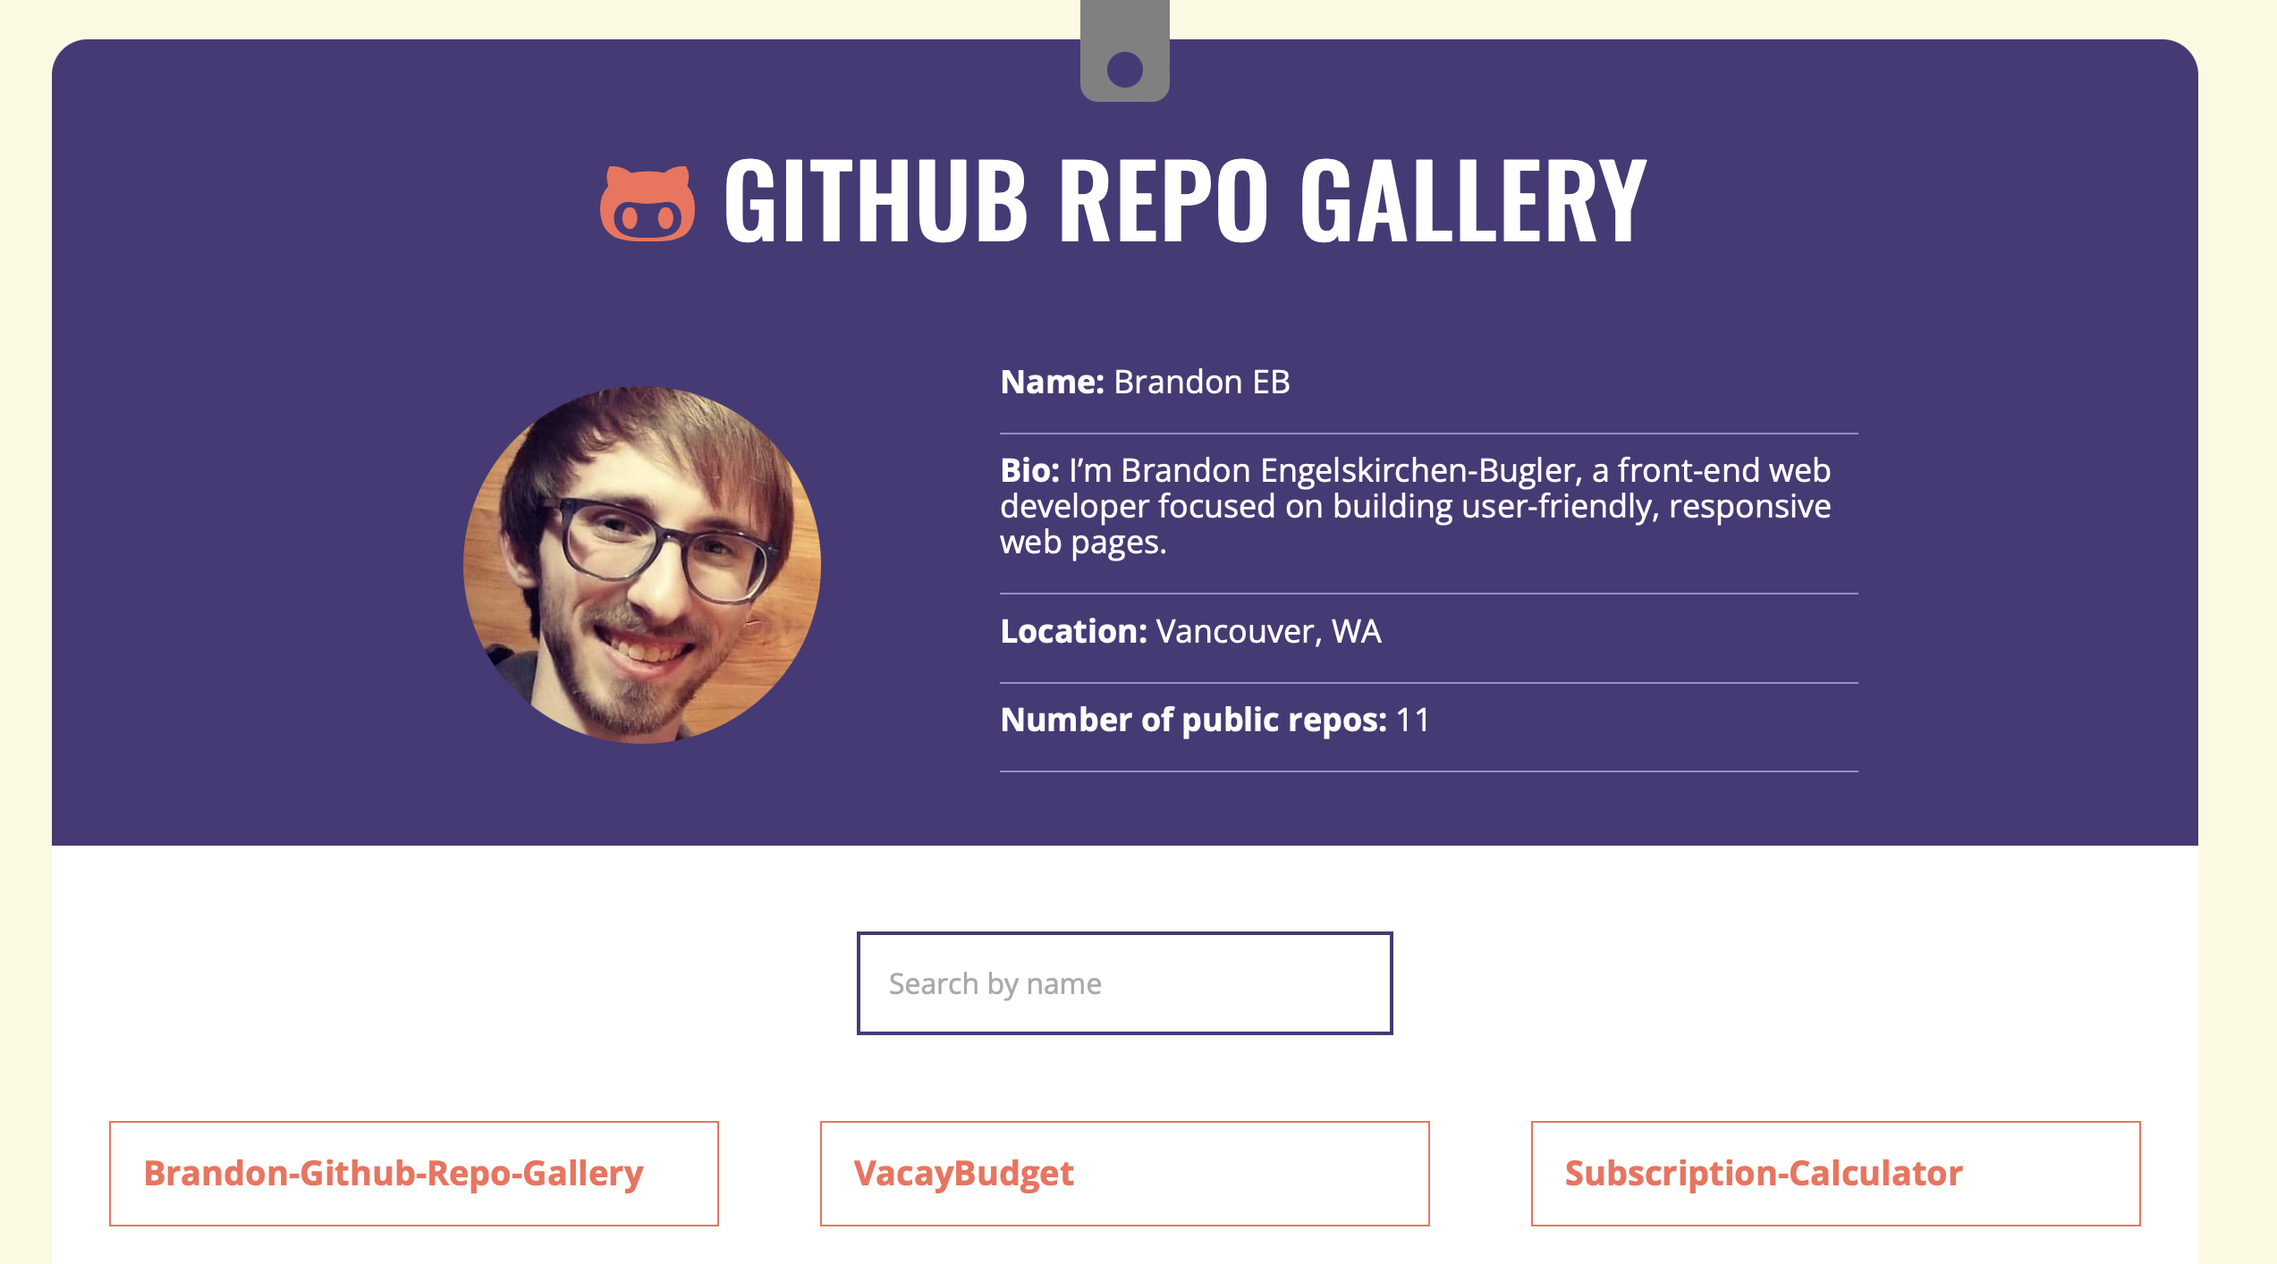
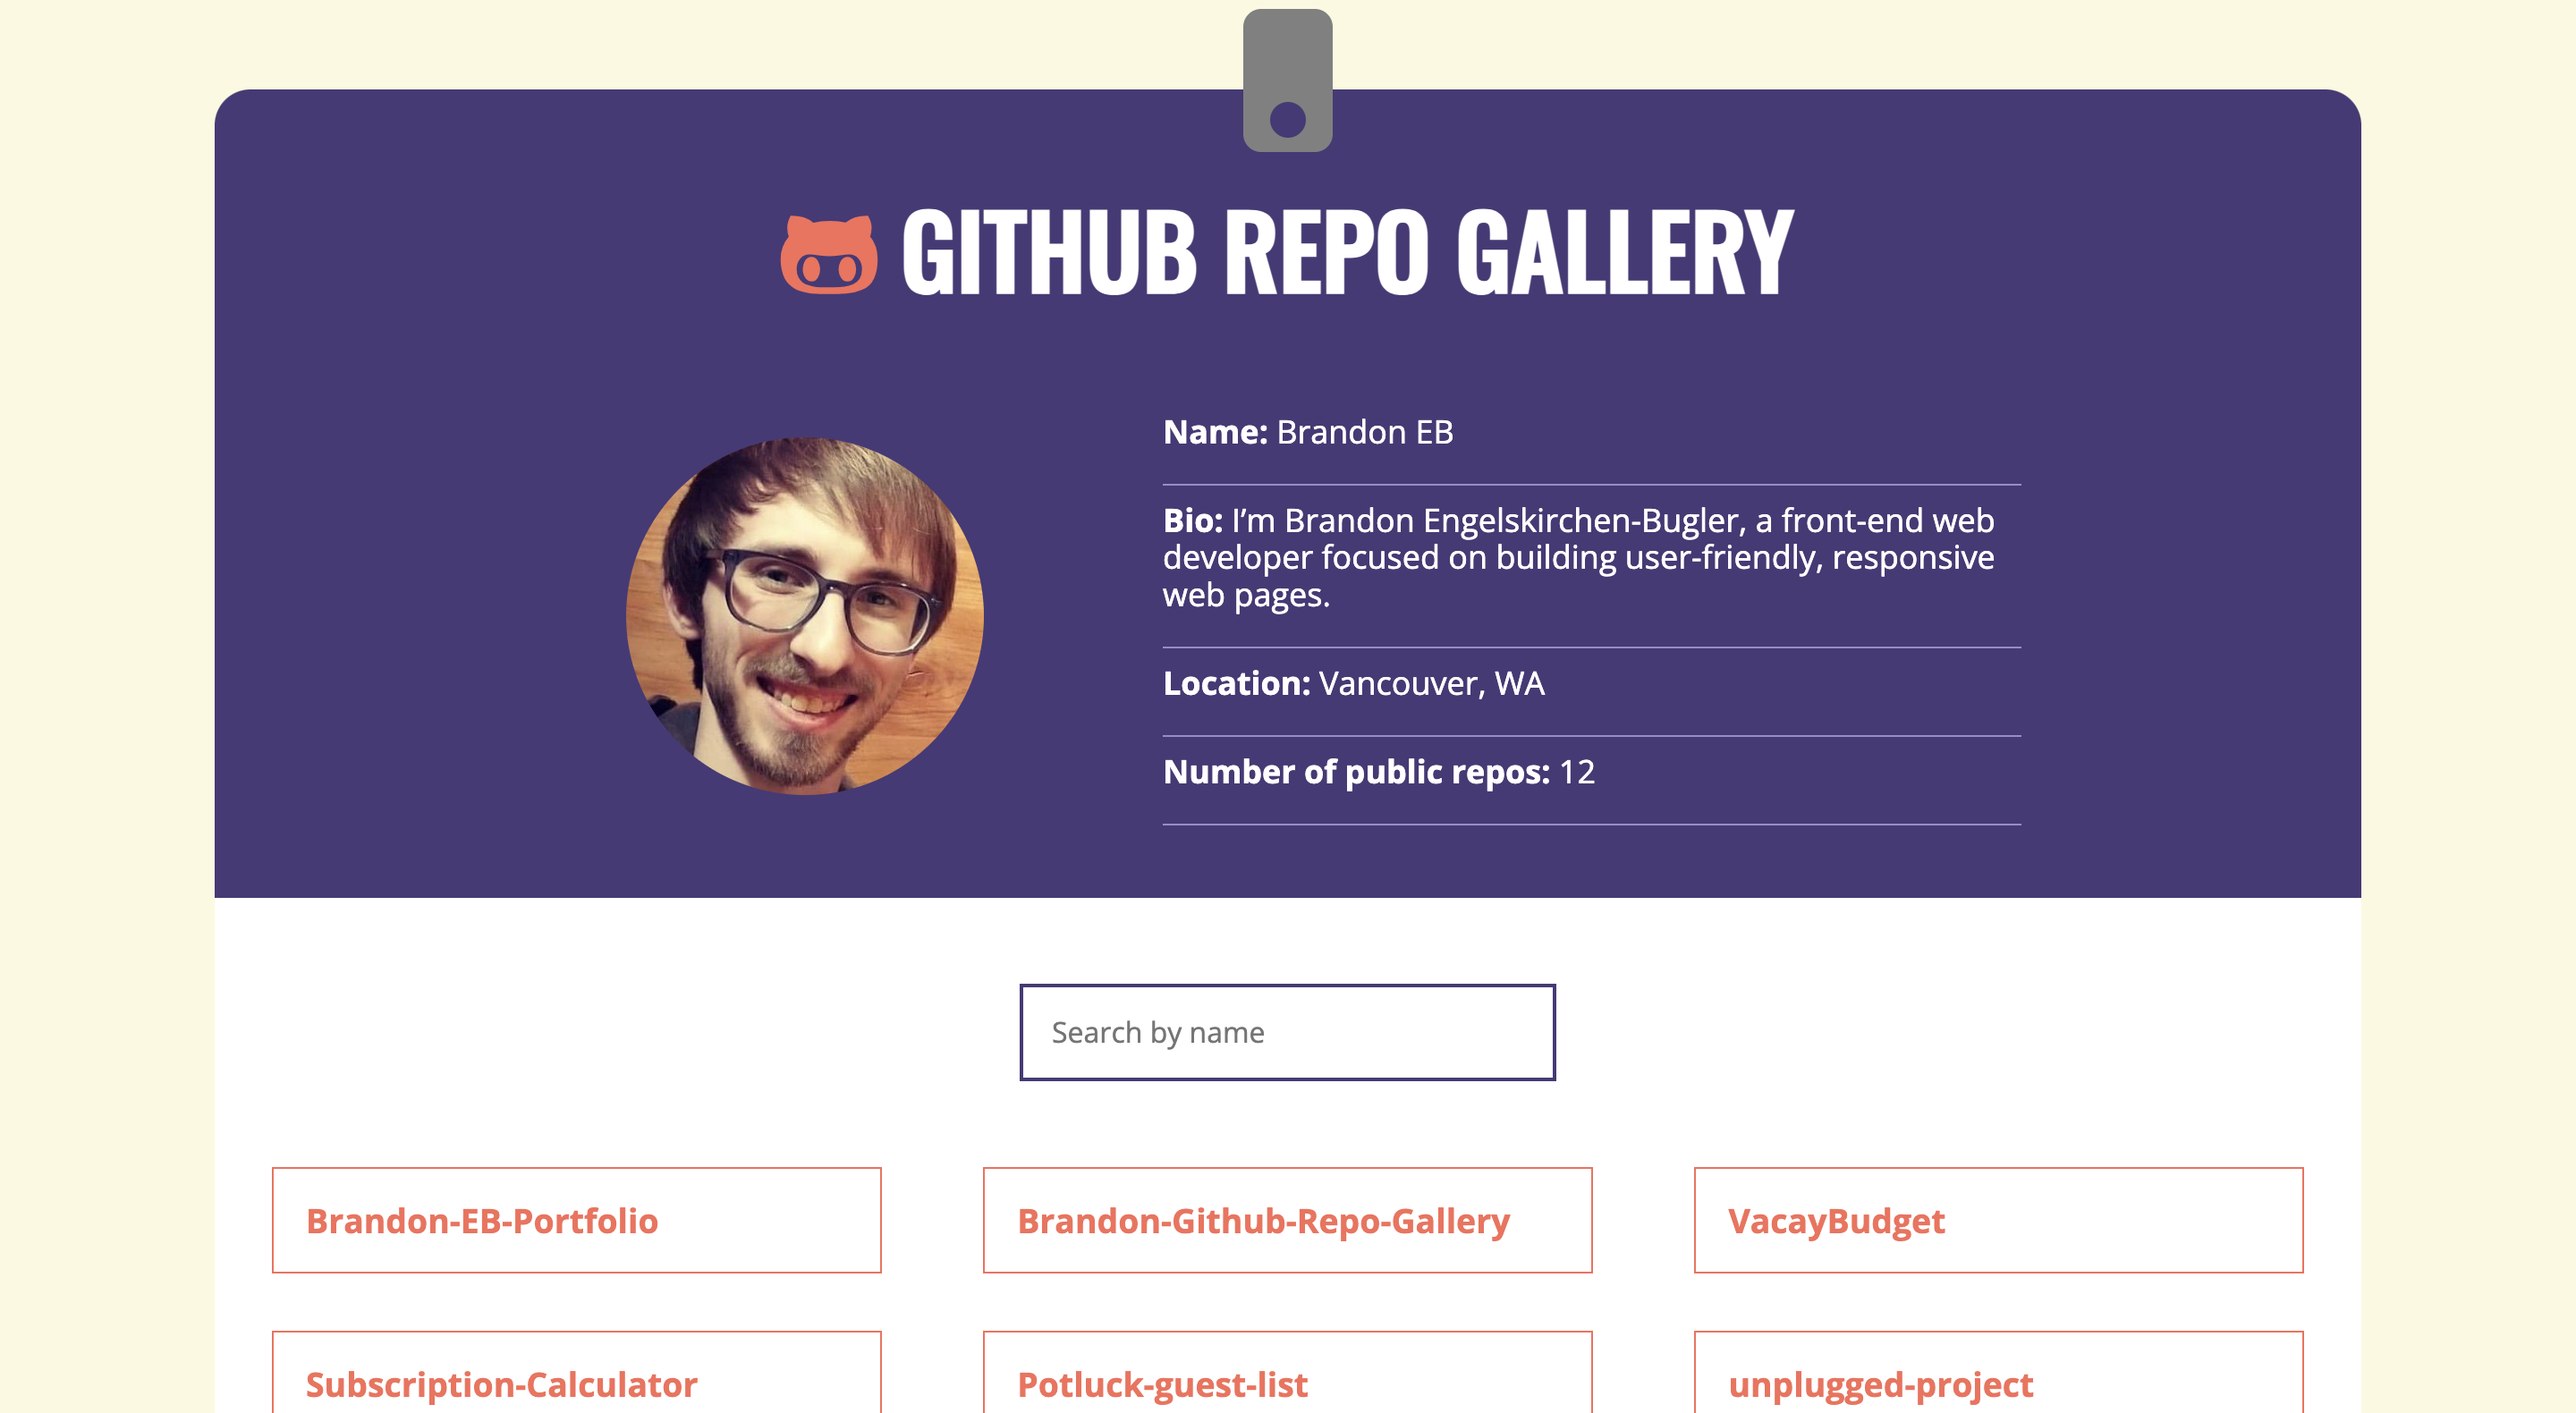
Added tablet media query

diff --git a/css/main.css b/css/main.css
@@ -148,7 +148,9 @@ h5 {
   width: 100%;
 }
 
-.link-button, .skills-wrapper p, .tools-wrapper p {
+.link-button,
+.skills-wrapper p,
+.tools-wrapper p {
   text-transform: uppercase;
   font-size: 1em;
 }
@@ -173,14 +175,19 @@ figure {
   margin: 0;
 }
 
-p, li {
+p,
+li {
   font-size: 1em;
   line-height: 1.285;
 }
 
 /* ---------------------------------------Structure--------------------------------------- */
 
-header, #projects, #about, #skills, footer {
+header,
+#projects,
+#about,
+#skills,
+footer {
   display: flex;
   justify-content: center;
   text-align: center;
@@ -191,12 +198,18 @@ header, #projects, #about, #skills, footer {
   width: 90%;
 }
 
-#projects p, #about p {
+#projects p,
+#about p {
   text-align: left;
   width: 100%;
 }
 
-h1, h2, h3, h4, h5, p {
+h1,
+h2,
+h3,
+h4,
+h5,
+p {
   margin: 0;
 }
 
@@ -248,6 +261,7 @@ h4 {
 .link-button {
   margin: 40px 0 40px 0;
   background-color: #cac691;
+  color: #152a3e;
 }
 
 figure {
@@ -263,7 +277,8 @@ figure {
   margin-bottom: 40px;
 }
 
-.skills-wrapper p, .tools-wrapper p {
+.skills-wrapper p,
+.tools-wrapper p {
   background-color: #cac691;
   margin: 20px 0;
   padding: 15px 0;
@@ -337,7 +352,6 @@ article h4 {
 
 .portfolio-sample figure img {
   border-radius: 20px;
-  max-height: 200px;
   transition: transform .5s;
 }
 
@@ -356,7 +370,6 @@ article h4 {
 
 .link-button:hover {
   background-color: #e7e5cb;
-  color: #152a3e;
 }
 
 #about {
@@ -367,16 +380,19 @@ article h4 {
   margin-bottom: 40px;
 }
 
-#skills h4 {
-  padding-top: 20px;
+#skills h3 {
+  margin-bottom: 40px;
 }
 
 #about {
   margin-top: 30px;
 }
 
-.avatar img {
+.avatar {
   margin-bottom: 20px;
+}
+
+.avatar img {
   border-radius: 20px;
   width: 90%;
 }
@@ -410,7 +426,11 @@ footer .contact-info {
   background-color: #cac691;
   color: #152a3e;
   border-radius: 30px;
-  padding: 10px 10px;
+  padding: 5px 5px;
+}
+
+footer h4 {
+  width: 100%;
 }
 
 footer .social-links {
@@ -531,10 +551,170 @@ footer .social-icons li i {
 /* --------------------------------------Tablet--------------------------------------- */
 @media only screen and (min-width: 768px) {
 
-  .portfolio-sample figure img {
-    max-height: 500px;
+  .content-wrapper {
+    max-width: 640px;
   }
 
+  /* ----------------------Font----------------------- */
+
+  h1 {
+    font-size: 2.4rem;
+  }
+
+  h2 {
+    font-size: 1.5rem;
+  }
+
+  h3 {
+    font-size: 2rem;
+  }
+
+  h4 {
+    font-size: 1.5rem;
+  }
+
+  h5 {
+    font-size: 1.5rem;
+  }
+
+  p {
+    font-size: 1.2rem;
+  }
+
+  /* ----------------------Margins----------------------- */
+
+  header {
+    padding-top: 60px;
+    padding-bottom: 80px;
+  }
+
+  header nav {
+    margin-bottom: 40px;
+  }
+
+  header h1 {
+    margin: 40px 0 80px 0;
+  }
+
+  #projects {
+    padding-top: 60px;
+  }
+
+  #projects h3 {
+    padding-bottom: 60px;
+  }
+
+  .link-button {
+    margin-bottom: 80px;
+  }
+
+  #about {
+    padding-top: 120px;
+    padding-bottom: 120px;
+  }
+
+  .avatar {
+    margin-bottom: 80px;
+  }
+
+  #about h3 {
+    margin-bottom: 80px;
+  }
+
+  #about h4 {
+    margin-bottom: 60px;
+  }
+
+  #skills {
+    padding-top: 80px;
+  }
+
+  #skills h4 {
+    margin-top: 40px;
+  }
+
+  footer {
+    padding: 120px 0 80px 0;
+  }
+
+  footer h3 {
+    margin-bottom: 80px;
+  }
+
+  .contact-wrapper {
+    margin-bottom: 80px;
+  }
+
+  /* ----------------------Projects----------------------- */
+
+  .portfolio-wrapper {
+    justify-content: space-around;
+  }
+
+  .portfolio-sample {
+    width: 45%;
+    align-items: center;
+  }
+
+  .project-blurb {
+    width: 95%;
+  }
+
+  /* ----------------------About----------------------- */
+
+  .about-wrapper {
+    display: flex;
+    justify-content: center;
+    flex-flow: row wrap;
+  }
+
+  #about figure {
+    width: 75%;
+  }
+
+  #about h4 {
+    text-align: left;
+  }
+
+  /* ----------------------Skills----------------------- */
+
+  .skills-wrapper, .tools-wrapper {
+    display: flex;
+    justify-content: space-evenly;
+    width: 100%;
+    flex-flow: row wrap;
+  }
+
+  .skill, .tool {
+    width: 45%;
+  }
+
+  /* ----------------------Footer----------------------- */
+
+  .contact-wrapper {
+    display: flex;
+    justify-content: space-between;
+  }
+
+  footer .contact-info {
+    width: 33%;
+  }
+
+  footer ul {
+    display: flex;
+    justify-content: space-between;
+    align-items: center;
+    flex-direction: row;
+    width: 100%;
+  }
+
+  footer .social-icons {
+    width: 12.5em;
+  }
+
+  footer .social-icons li i {
+    font-size: 2em;
+  }
 }
 
 /* --------------------------------------Desktop-------------------------------------- */

diff --git a/index.html b/index.html
@@ -102,7 +102,7 @@
               </figure>
               <h4>GitHub Repo Gallery</h4>
               <p class="project-blurb">Searchable gallery of my public GitHub repos. Built using GitHub APIs to pull
-                information about my profile and repos & update automatically.</p>
+                information about my profile and repos.</p>
               <p> <span>Skills:</span> JavaScript </p>
               <p class="flex-fill"> <span>Tools:</span> APIs, JSON, JavaScript </p>
               <a class="link-button" href="https://bbuglz81.github.io/Brandon-Github-Repo-Gallery/"
@@ -240,10 +240,10 @@
 
         </div>
 
-        <div class="social-links">
+        <div class="contact-info social-links">
 
           <h5>Give me a follow!</h5>
-          <ul class="contact-info social-icons">
+          <ul class="social-icons">
             <li>
               <a href="https://www.linkedin.com/in/brandon-engelskirchen-bugler/" target="_blank">
                 <i class="fab fa-linkedin-in"></i>
